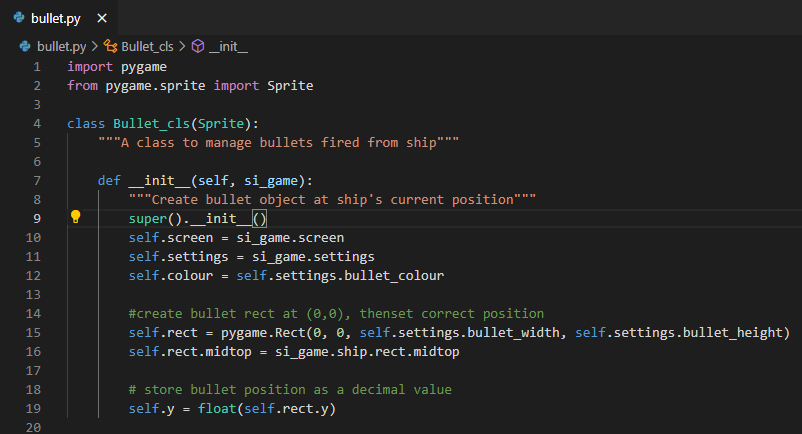
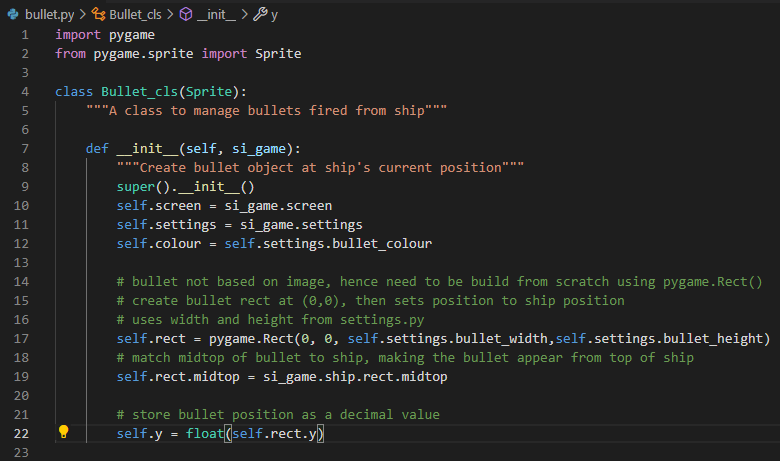
updated bullet for pygame pt1

diff --git a/_posts/2021-04-06-personal-python-pygame.md b/_posts/2021-04-06-personal-python-pygame.md
@@ -126,6 +126,8 @@ The settings create dark grey bullets that are 3 by 15 pixels. The bullet travel
 
 |![bullet.py](/assets/images/personal-python-pygame/bullet_file.png)|
 |<em>bullet.py</em>|
+Some notes regarding bullet.py. The bullet class inherits properties from pygame.sprite module. Sprites allow for grouping of related elements and acting on all of them at once. To make a bullet instance, the __init()__ uses the current instance of SpaceInvaders. The super() call is used to inherit properties from pygame.sprite. Other attributes of the bullet were also set.
+
 
 
 <s>he he, ship goes pew pew</s>
